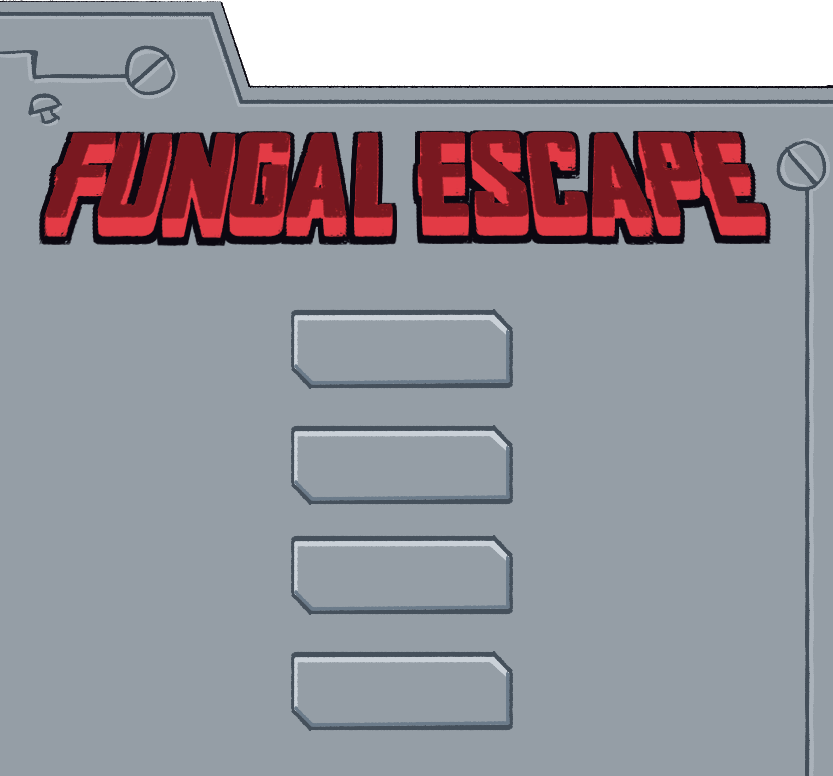
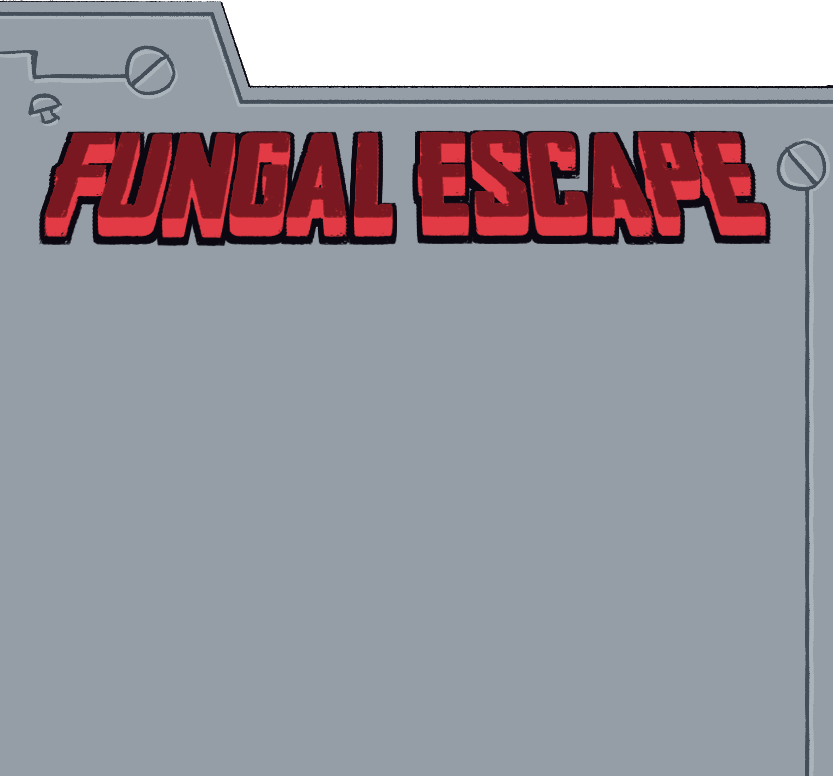
main menu

Changed region(s): [[0.3433, 0.4021, 0.6242, 0.6495], [0.3433, 0.8351, 0.6242, 0.9588], [0.3433, 0.6804, 0.6242, 0.8041]]

diff --git a/index.html b/index.html
@@ -10,25 +10,35 @@
 </head>
 <body>
   <div id="ui">
-    <img id="main-menu" src='assets/fungal-escape-titlemenu.png'/>
+
+    <div id="main-menu">
+    <img id="title" style="position: absolute; top: 150px; left: 25px" src="assets/title.png"/>
+    <img src="assets/menu.png"/>
     <div
       id="start-button"
       onclick="
+		document.getElementById('main-menu').style['top'] = '525px'
+		document.getElementById('title').style.display = 'none';
 		document.getElementById('start-button').style.display = 'none';
-		document.getElementById('main-menu').style.display = 'none';
 		document.getElementById('stage-select').style.display = 'flex';
 		document.getElementById('ui').style.display = 'flex';
 		document.getElementById('ui').style['justify-content'] = 'flex-end';
 	"
     >
-      <h1>START</h1>
+      <img style='position: absolute; scale: 1.5' src='assets/button.png'>
+      <h1 style='position: absolute; top: 5px'>CHOOSE A CHARACTER</h1>
+      </img>
     </div>
+    </div>
+
     <div id="health-bar" class="snes-container"></div>
     <div id="timer" class="snes-container"></div>
     <div id="message" class="snes-container"> you continue running... </div>
-    <div id="stage-select" class="snes-form-group snes-container">
+
+    <div id="stage-select">
+    <div class="snes-form-group">
       <label>CHARACTER SELECT</label>
-      <div class="snes-radio snes-radio--vertical">
+      <div class="snes-radio snes-radio">
         <label class="snes-radio__item has-ember-icon">
           <input type="radio" name="player-select" value="0" checked />
           <span class="snes-radio__item__content">DEIMOS</span>
@@ -46,10 +56,14 @@
           <span class="snes-radio__item__content">IO</span>
         </label>
       </div>
+    </div>
         <button
           class="snes-button has-phantom-color"
+	  style="margin:0px 0px 0px 75px"
           onclick="
 		document.getElementById('stage-select').style.display = 'none';
+		document.getElementById('title').style.display = 'none';
+		document.getElementById('main-menu').style.display = 'none';
 		document.getElementById('health-bar').style.display = 'block';
 		gameStart();
 	"
@@ -57,6 +71,7 @@
           PLAY
         </button>
     </div>
+
   </div>
   <script src="javascript/lib/littlejs.js"></script>
   <script src="javascript/lib/fpo.src.js"></script>

diff --git a/css/style.css b/css/style.css
@@ -9,13 +9,17 @@
 }
 #stage-select {
       display: none;
-      flex-direction: column;
-      background-color: white;
-      margin: 20px;
-      width: 33%;
+      background-color: transparent;
+      height: 100px;
+      width: 66%;
+      padding: 20px;
 }
 #stage-select button {
-      margin: 0px 40px 0px 40px;
+      margin: 0px 60px 0px 60px;
+}
+#main-menu {
+	position: absolute;
+	top: 225px;
 }
 #health-bar {
       display: none;
@@ -35,7 +39,7 @@
 	width: 190px;
 	height: 40px;
 	left: 310px;
-	bottom: 450px;
+	bottom: 425px;
 	background-color: #959ea6
 }
 #timer {
